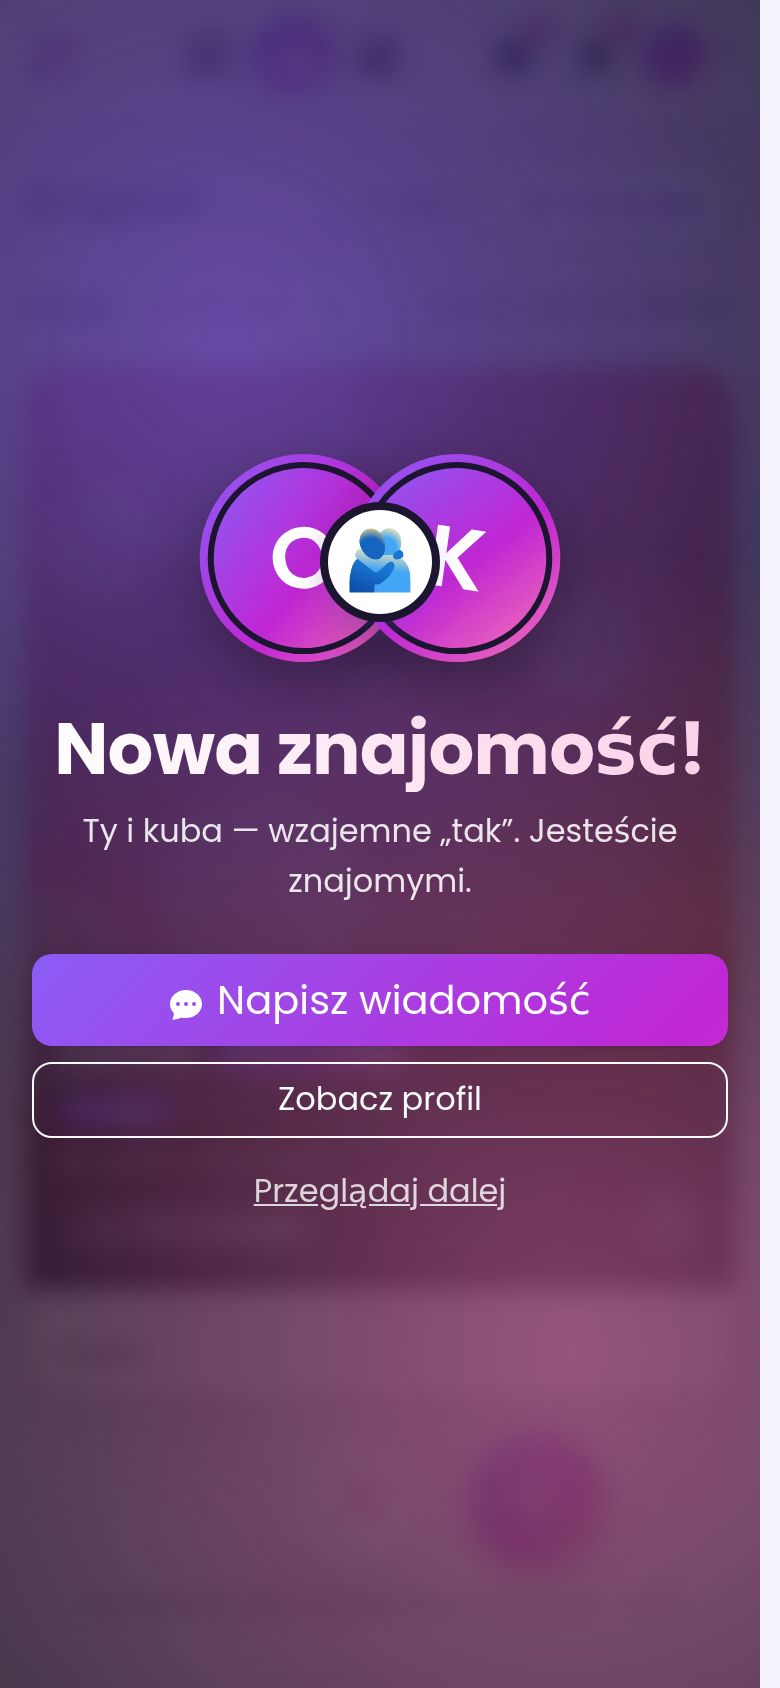
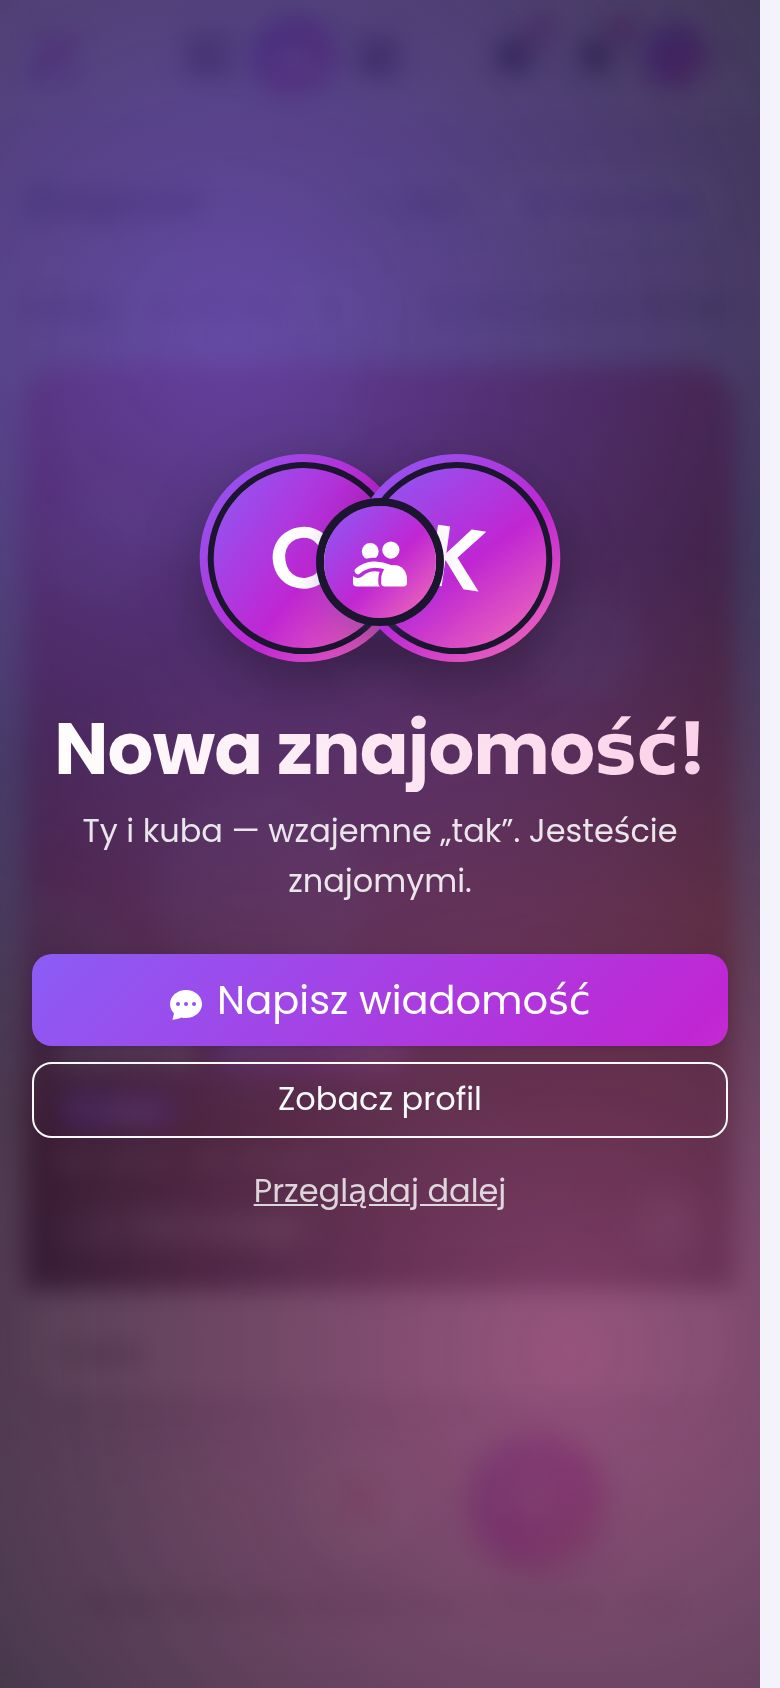
Nowa znajomosc: wlasna ikona SVG obejmujacych sie osob zamiast emotikonu 🫂
Kolorowy emotikon (niebieskie ludziki na bialym kole) odstawal od reszty
ikon. Teraz miedzy awatarami jest IconHug - dwie osoby, jedna obejmuje
druga ramieniem - narysowana w stylu Bootstrap Icons (pelne ksztalty,
siatka 16x16, zaokraglony dol jak people-fill), biala na gradiencie
aplikacji. Odstepy miedzy nakladajacymi sie ksztaltami to wyciecia maska
z id z useId, bo kreska "w kolorze tla" bylaby widoczna na gradiencie.

Wykrywanie emotikonu (utils/emoji.js) i zapasowa ikona nie sa juz potrzebne.
Sprawdzone w Chromium: maska po pikselach (przerwy przezroczyste, ramie,
plecy i obie osoby pelne), 93/93 sprawdzen edytora i Poznawaj; nowy zrzut
poznawaj-para.jpg do README.

Claude-Session: https://claude.ai/code/session_014kUzYHTrQqznpNE5NjCGfs

Changed region(s): [[0.4, 0.2773, 0.5846, 0.3697]]

diff --git a/frontend/src/components/Icons.jsx b/frontend/src/components/Icons.jsx
@@ -1,5 +1,7 @@
 /** Ikony jako male, wbudowane obrazki SVG. */
 
+import { useId } from 'react';
+
 function Svg({ children, size = 16, ...rest }) {
   return (
     <svg
@@ -412,6 +414,43 @@ export function IconSmile(props) {
       <path fill="none" stroke="currentColor" strokeWidth="1.3" strokeLinecap="round" d="M5.3 9.7a3 3 0 0 0 5.4 0" />
       <circle cx="6" cy="6.6" r=".95" />
       <circle cx="10" cy="6.6" r=".95" />
+    </Svg>
+  );
+}
+
+/*
+ * Dwie osoby, jedna obejmuje druga ramieniem - nowa znajomosc w Poznawaj. W Bootstrap Icons takiej nie ma,
+ * wiec jest narysowana w tym samym stylu (pelne ksztalty, siatka 16x16, zaokraglony dol jak w "people-fill").
+ * Odstepy miedzy nakladajacymi sie ksztaltami to wyciecia (maska), a nie kreski w kolorze tla - ikona lezy na
+ * gradiencie, wiec kreska "w kolorze tla" bylaby widoczna. Kazda ikona ma wlasne id maski (useId), bo dwie
+ * ikony na jednej stronie z tym samym id dzielilyby maske.
+ */
+const HUG_GLOWA_L = [5.4, 5.2, 2.25];
+const HUG_GLOWA_P = [10.9, 4.8, 2.3];
+const HUG_CIALO_L = 'M0.8 13.5V12.6C0.8 10.4 2.6 8.8 5 8.8S9.2 10.4 9.2 12.6V13.5a1 1 0 0 1-1 1H1.8a1 1 0 0 1-1-1Z';
+const HUG_CIALO_P = 'M8.3 13.5V12.6C8.3 10.4 9.7 8.8 11.7 8.8S15.2 10.4 15.2 12.6V13.5a1 1 0 0 1-1 1H9.3a1 1 0 0 1-1-1Z';
+const HUG_RAMIE = 'M2.1 10.4C4.4 8.4 7.6 8.2 10.6 9.6';
+
+export function IconHug(props) {
+  const maska = `przytulas-${useId().replace(/[^a-zA-Z0-9_-]/g, '')}`;
+  return (
+    <Svg {...props}>
+      <defs>
+        <mask id={maska} maskUnits="userSpaceOnUse" x="0" y="0" width="16" height="16">
+          <rect width="16" height="16" fill="#fff" />
+          <path d={HUG_CIALO_P} stroke="#000" strokeWidth="1.5" strokeLinejoin="round" />
+          <circle cx={HUG_GLOWA_P[0]} cy={HUG_GLOWA_P[1]} r={HUG_GLOWA_P[2]} stroke="#000" strokeWidth="1.5" />
+          <path d={HUG_RAMIE} fill="none" stroke="#000" strokeWidth="3.7" strokeLinecap="round" />
+        </mask>
+      </defs>
+      {/* Osoba z tylu - wycieta tam, gdzie zaslania ja ta z przodu i obejmujace ramie */}
+      <g mask={`url(#${maska})`}>
+        <circle cx={HUG_GLOWA_L[0]} cy={HUG_GLOWA_L[1]} r={HUG_GLOWA_L[2]} />
+        <path d={HUG_CIALO_L} />
+      </g>
+      <circle cx={HUG_GLOWA_P[0]} cy={HUG_GLOWA_P[1]} r={HUG_GLOWA_P[2]} />
+      <path d={HUG_CIALO_P} />
+      <path d={HUG_RAMIE} fill="none" stroke="currentColor" strokeWidth="1.7" strokeLinecap="round" />
     </Svg>
   );
 }

diff --git a/frontend/src/components/poznawaj/Dopasowanie.jsx b/frontend/src/components/poznawaj/Dopasowanie.jsx
@@ -1,23 +1,19 @@
-import { useEffect, useRef, useState } from 'react';
+import { useEffect, useRef } from 'react';
 import { Link } from 'react-router-dom';
 import { useTranslation } from 'react-i18next';
 import Avatar from '../Avatar';
-import { czyEmojiDziala } from '../../utils/emoji';
-import { IconChat, IconFriends } from '../Icons';
-
-/** Przytulajace sie ludziki - to aplikacja do poznawania ludzi, nie randkowa, wiec bez serduszek. */
-const PRZYTULAS = '\u{1FAC2}';
+import { IconChat, IconHug } from '../Icons';
 
 /**
  * "Nowa znajomosc!" - wzajemne "tak". Od tej chwili jestescie znajomymi, wiec mozna od razu napisac.
- * Miedzy awatarami przytulajace sie ludziki; gdzie system ich nie ma (Windows 10, stare Androidy) -
- * ikona dwoch osob zamiast pustego prostokata.
+ * Miedzy awatarami dwie osoby, ktore sie obejmuja (IconHug) - to aplikacja do poznawania ludzi, nie randkowa,
+ * wiec bez serduszek. Wlasne SVG zamiast emotikonu: kolorowy emotikon odstawal od reszty ikon, a na Windows 10
+ * i starych Androidach w ogole go nie ma.
  * Okienko zamyka Esc, klikniecie w tlo i "Przegladaj dalej".
  */
 export default function Dopasowanie({ ja, on, onNapisz, onZamknij }) {
   const { t } = useTranslation();
   const glowny = useRef(null);
-  const [emoji] = useState(() => czyEmojiDziala(PRZYTULAS));
 
   useEffect(() => {
     glowny.current?.focus();
@@ -36,9 +32,7 @@ export default function Dopasowanie({ ja, on, onNapisz, onZamknij }) {
       <div className="pz-dopasowanie-okno" onClick={(e) => e.stopPropagation()}>
         <div className="pz-dopasowanie-awatary" aria-hidden="true">
           <span className="pz-dopasowanie-awatar is-lewy"><Avatar avatarUrl={ja.avatarUrl} username={ja.username} size={96} /></span>
-          <span className={`pz-dopasowanie-znak${emoji ? ' is-emoji' : ''}`}>
-            {emoji ? PRZYTULAS : <IconFriends size={24} />}
-          </span>
+          <span className="pz-dopasowanie-znak"><IconHug size={30} /></span>
           <span className="pz-dopasowanie-awatar is-prawy"><Avatar avatarUrl={on.avatarUrl} username={on.username} size={96} /></span>
         </div>
         <h2 id="pz-dopasowanie-tytul" className="pz-dopasowanie-tytul">{t('discover.match.title')}</h2>

diff --git a/frontend/src/style/poznawaj.css b/frontend/src/style/poznawaj.css
@@ -748,21 +748,13 @@
   display: inline-flex;
   align-items: center;
   justify-content: center;
-  width: 3.25rem;
-  height: 3.25rem;
+  width: 3.5rem;
+  height: 3.5rem;
   border-radius: 50%;
   color: #fff;
   background: var(--mc-gradient);
   box-shadow: 0 0 0 4px #1c1530, var(--mc-glow);
   animation: pz-znak .6s .2s var(--mc-ease) backwards;
-}
-
-/* Kolorowy emotikon na jasnym kole - na gradiencie jego szaroniebieskie ludziki ginely */
-.pz-dopasowanie-znak.is-emoji {
-  background: #fff;
-  font-size: 1.85rem;
-  line-height: 1;
-  font-family: "Apple Color Emoji", "Segoe UI Emoji", "Noto Color Emoji", sans-serif;
 }
 
 @keyframes pz-znak {

diff --git a/README.md b/README.md
@@ -65,7 +65,7 @@ dotyczy właśnie Ciebie. Przy poście stoi powód: „Z twojej okolicy”, „P
 | | | |
 |:---:|:---:|:---:|
 | <img src="docs/zrzuty/poznawaj-telefon.jpg" alt="Talia kart w trybie Poznawaj" width="250"> | <img src="docs/zrzuty/poznawaj-szczegoly.jpg" alt="Szczegóły karty: co was łączy, opis, pytania" width="250"> | <img src="docs/zrzuty/poznawaj-para.jpg" alt="Wzajemne tak — jesteście znajomymi" width="250"> |
-| Talia: od najbardziej podobnego gustu, w zasięgu z ustawień; w prawo (albo „+”) — chcę poznać | Kartę przewija się w górę: co was łączy, „O mnie”, „Szukam”, pytania | Wzajemne „tak” — „Nowa znajomość!” 🫂, od razu można pisać |
+| Talia: od najbardziej podobnego gustu, w zasięgu z ustawień; w prawo (albo „+”) — chcę poznać | Kartę przewija się w górę: co was łączy, „O mnie”, „Szukam”, pytania | Wzajemne „tak” — „Nowa znajomość!”, od razu można pisać |
 
 <p align="center">
   <img src="docs/zrzuty/karta-ustawienia.jpg" alt="Twoja karta w ustawieniach" width="520">
@@ -761,9 +761,10 @@ samodzielnie albo razem z tekstem, także jako odpowiedź na cudzy komentarz.
 
 W zakładce **Znajomi** obok zwykłej listy jest tryb **Poznawaj**: karty osób z okolicy, jedna po drugiej. Przesunięcie
 w prawo (przycisk „+” albo →) znaczy „chcę poznać”, w lewo (✕, ←) — „nie teraz”. Znajomymi zostajecie dopiero wtedy,
-gdy obie osoby przesuną w prawo; do tej chwili „tak” jest tajne. Wtedy wyskakuje „Nowa znajomość!” z przytulającymi
-się ludzikami 🫂 i przyciskiem „Napisz wiadomość”, a obie osoby dostają powiadomienie i push. Bez serduszek — to aplikacja
-do poznawania ludzi, nie randkowa.
+gdy obie osoby przesuną w prawo; do tej chwili „tak” jest tajne. Wtedy wyskakuje „Nowa znajomość!” z ikoną dwóch
+obejmujących się osób i przyciskiem „Napisz wiadomość”, a obie osoby dostają powiadomienie i push. Bez serduszek — to
+aplikacja do poznawania ludzi, nie randkowa. Ikona (`IconHug`) jest narysowana w stylu Bootstrap Icons, jak reszta —
+kolorowy emotikon odstawał od wyglądu aplikacji.
 
 - **Kto jest w talii.** Tylko osoby, które same włączyły tryb (domyślnie jest wyłączony — karta ze zdjęciami dla obcych
   to świadoma decyzja). Bez znajomych, blokad, oczekujących zaproszeń, osób z zakazem publikowania i już ocenionych
@@ -1591,8 +1592,7 @@ zgłoszenie złożone przez kogoś innego. Zabezpieczenia sprawdzamy też od dru
 kodzie (mutacja) ma zaczerwienić jakiś test.
 
 **Czego stąd nie widać** (i co trzeba zobaczyć po wdrożeniu): prawdziwe usługi push (Google, Apple), prawdziwy KLIPY lub
-GIPHY (kształt odpowiedzi jest sprawdzony tylko na udawanym serwerze), PWA na prawdziwym telefonie (gest przesuwania kart i kadrowanie zdjęć były sprawdzone dotykiem udawanym przez Chromium;
-emotikon 🫂 na Windows 10 i starych Androidach zastępuje ikona dwóch osób — sprawdzone na udawanym braku emotikonu). Szczegóły i kroki
+GIPHY (kształt odpowiedzi jest sprawdzony tylko na udawanym serwerze), PWA na prawdziwym telefonie (gest przesuwania kart i kadrowanie zdjęć były sprawdzone dotykiem udawanym przez Chromium). Szczegóły i kroki
 kontrolne są w [`docs/WDROZENIE.md`](docs/WDROZENIE.md).
 
 **Co dalej:** stały adres → sprawdzenie PWA na telefonie → aplikacja na Androida jako TWA (Bubblewrap) → Google Play.

diff --git a/CLAUDE.md b/CLAUDE.md
@@ -19,8 +19,8 @@ e-mail (niżej), automatyczne uzupełnianie gatunków ulubionych artystów, klan
 z przeglądarką, prośbami, tytułami, ankietami i rankingiem (V9–V12), miasto w profilu
 i okolica w propozycjach/wydarzeniach/klanach (V13), tablica „Dla ciebie” i komentarze
 z oznaczeniami (V14), GIF-y w komentarzach i na czacie (V15), GIF-y w czacie klanu (V16), karta profilu
-(galeria, opis, „szukam”, pytania muzyczne) i tryb Poznawaj — karty w stylu Tindera (V17), plusik i 🫂 zamiast
-serduszek oraz wspólny edytor zdjęć — kadr i obrót przy każdym załączanym obrazie (bez migracji).
+(galeria, opis, „szukam”, pytania muzyczne) i tryb Poznawaj — karty w stylu Tindera (V17), plusik i ikona
+obejmujących się osób zamiast serduszek oraz wspólny edytor zdjęć — kadr i obrót przy każdym załączanym obrazie (bez migracji).
 Zostało: stały adres → sprawdzenie PWA na prawdziwym telefonie → TWA przez
 Bubblewrap → Google Play.
 
@@ -652,9 +652,11 @@ Zakaz publikowania blokuje zmiany i nowe zdjęcia (usuwać wolno) i wyrzuca z ta
 ## Edytor zdjęć i „nie randka” (bez migracji)
 
 - **Bez serduszek** — to aplikacja do poznawania ludzi. Przycisk „tak” w Poznawaj i krok na ekranie startowym to
-  `IconPlus`; przy wzajemnym „tak” tytuł „Nowa znajomość!” i 🫂 (U+1FAC2) na białym kole. `utils/emoji.js` rysuje znak
-  na płótnie i sprawdza kolorowe piksele — gdzie systemu nie ma emotikonu (Windows 10, stare Androidy), jest
-  `IconFriends`. `IconHeart` usunięty; po angielsku pieczątka „NOPE” → „SKIP”.
+  `IconPlus`; przy wzajemnym „tak” tytuł „Nowa znajomość!” i `IconHug` (dwie osoby, jedna obejmuje drugą ramieniem)
+  na gradiencie. Najpierw był emotikon 🫂 — użytkownik odrzucił go, bo niebieski odstawał od reszty ikon. `IconHug` to
+  własne SVG w stylu Bootstrap Icons (Bootstrap nie ma ikony przytulenia): odstępy między nakładającymi się kształtami
+  to **wycięcia maską** (`<mask>` z `useId` — kreska „w kolorze tła” byłaby widać na gradiencie); e2e sprawdza maskę
+  po pikselach (przerwy przezroczyste, ramię i plecy pełne). `IconHeart` usunięty; po angielsku „NOPE” → „SKIP”.
 - **Edytor** (`components/obraz/EdytorZdjecia.jsx`, proporcje w `rodzajeKadru.js`): awatar 1:1 w kółku (otwiera się
   od razu), post — przycisk na miniaturze, proporcje do wyboru; karta 3:4 — kolejka po wybraniu kilku plików („Pomiń”,
   zamknięcie = koniec kolejki; wgrywanie w tle po kolei); ikona klanu 1:1; zdjęcie klanu 3:1 / 16:9 / dowolne.

diff --git a/docs/WDROZENIE.md b/docs/WDROZENIE.md
@@ -409,7 +409,7 @@ Nic do ustawiania — działa od razu. Kilka rzeczy, o których warto wiedzieć 
    przez użytkownika” widoczne dla innych; w ankiecie treści (IARC) zaznacza się kontakt między użytkownikami.
    Aplikacja do poznawania ludzi musi mieć zgłaszanie i blokowanie z poziomu karty — są (pod opisem na karcie).
    Przy kategorii w sklepie: to aplikacja społecznościowa do poznawania ludzi, **nie randkowa** — w interfejsie nie ma
-   serduszek (przycisk „tak” to plusik, przy nowej znajomości są przytulające się ludziki 🫂).
+   serduszek (przycisk „tak” to plusik, przy nowej znajomości — ikona dwóch obejmujących się osób).
 5. **Edytor zdjęć** (kadr i obrót) działa w całości w przeglądarce — serwer dostaje zwykły plik JPEG/WebP/PNG/GIF jak
    wcześniej i niczego nie trzeba ustawiać. Po przycięciu dłuższy bok ma najwyżej 2048 px.
 
@@ -927,7 +927,8 @@ Przy edytorze zdjęć i plusiku zamiast serca (październik 2026, bez migracji, 
   granice; 20 000 losowych przypadków, puszczone też z czterema innymi ziarnami), macierz obrotu płótna zgodna
   z obrotem kadru, liczenie klatek GIF-a (także na prawdziwych plikach z PIL); `mvnw clean test` → 725 testów;
 - Chromium na prawdziwym PostgreSQL (baza z migracji V1–V17, 94 + 6 sprawdzeń): plusik w przycisku „tak” i na ekranie
-  startowym, nigdzie ścieżki serca; „Nowa znajomość!” z 🫂, a przy udawanym braku emotikonu — ikona dwóch osób;
+  startowym, nigdzie ścieżki serca; „Nowa znajomość!” z ikoną obejmujących się osób (emotikon 🫂 zastąpiony
+  później własnym SVG — wycięcia maski sprawdzone po pikselach);
   awatar (kadr 1:1 w kółku, obrót, wynik na serwerze sprawdzony **po pikselach** — ćwiartki w dobrych miejscach,
   ponowna edycja od oryginału, Esc, zepsuty plik → „Użyj bez edycji”, plik tekstowy → komunikat bez edytora); post
   (zdjęcie z EXIF-em obrotu, „bez zmian” = ten sam plik, proporcje, uchwyty myszą do krawędzi i za przeciwległy róg,
